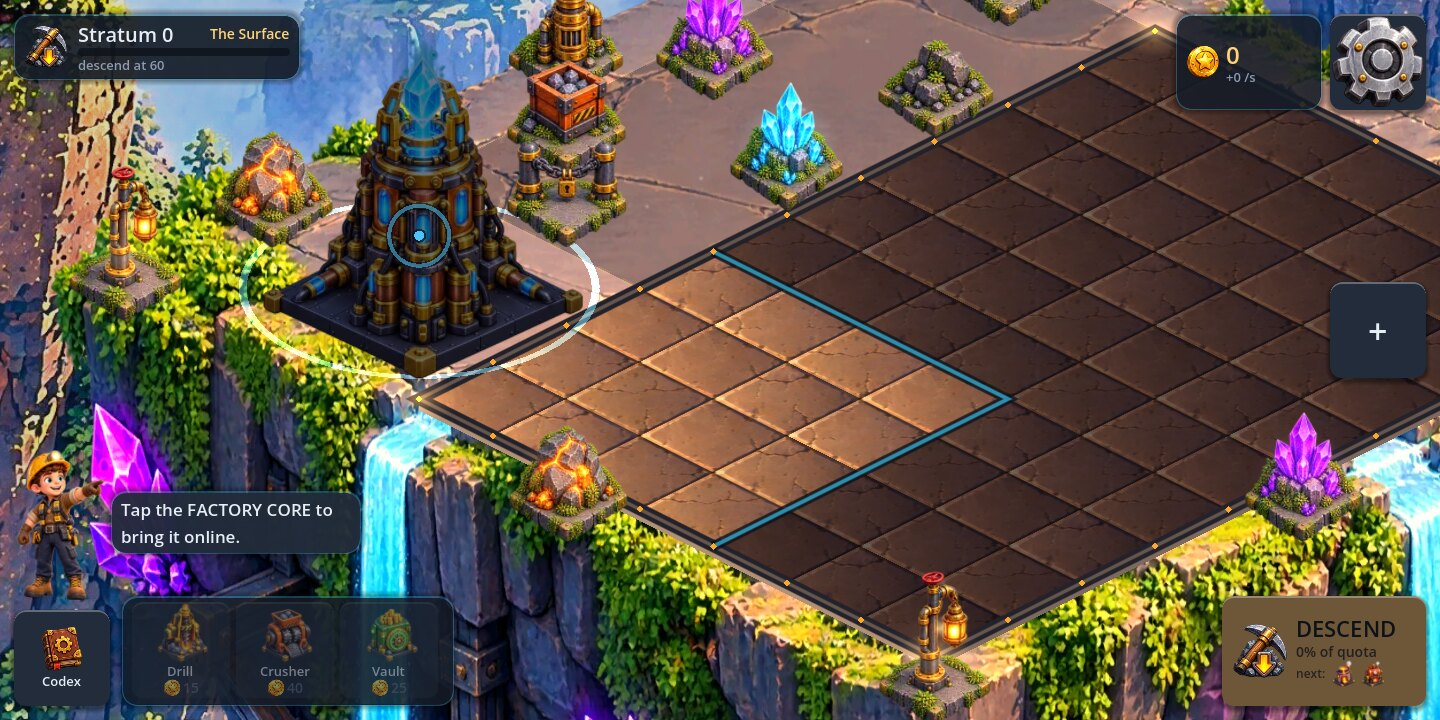
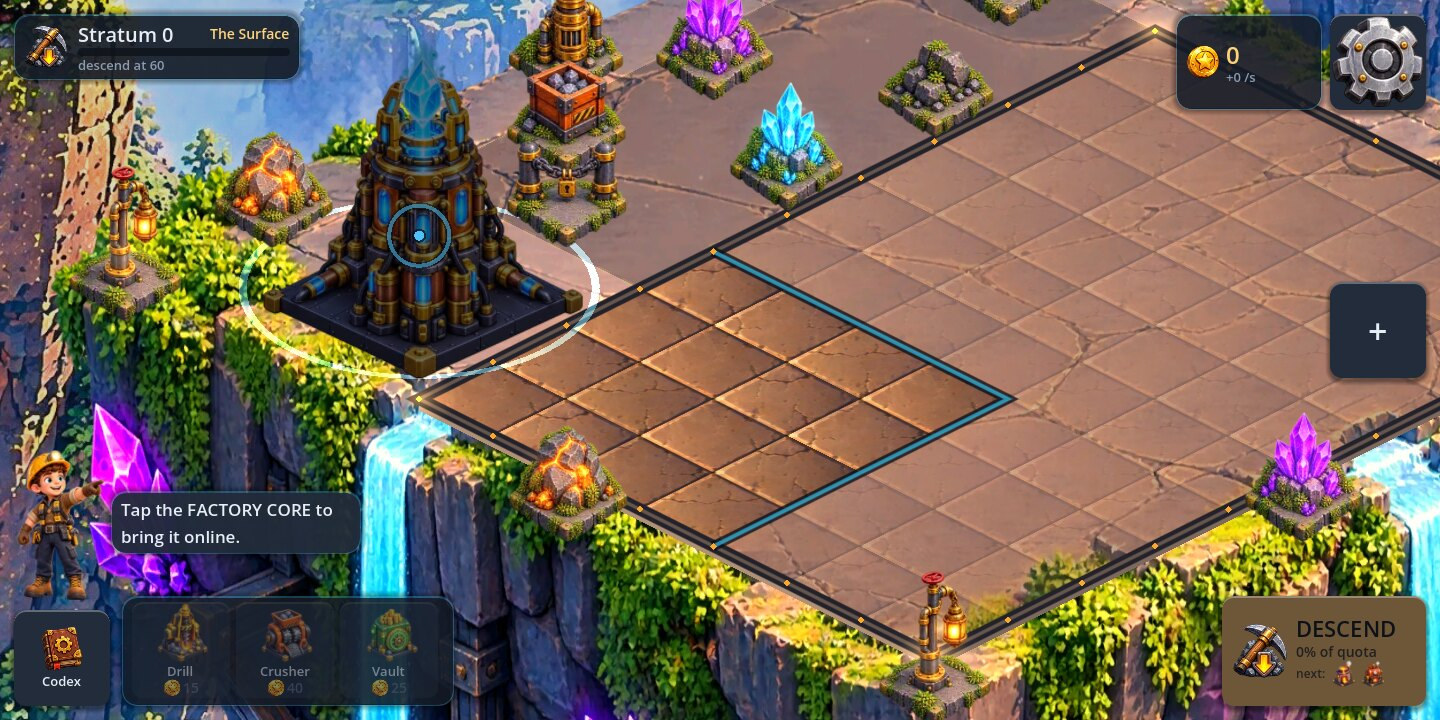
Draw the ground outside the yard as bare rock, not a dark hole
At first the tiles outside the yard were drawn at 42% brightness, and on a
new game's first screen that made a dark mass over about a third of the
screen, the heaviest thing in view. They are now faint grey slabs at 45%
opacity over the island's own rock: ground marked out and not yet laid.
The yard beside the Core, fully textured and outlined, is what stands out.

Changed region(s): [[0.5, 0.0611, 1.0, 0.8861]]

diff --git a/docs/ART.md b/docs/ART.md
@@ -95,7 +95,9 @@ Core is drawn at 84% of its picture and each level adds 4%. From level 2 it
 has a halo and conduits of light into the yard beside it, from level 3
 orbiting motes, and at level 5 a slow flare.
 
-**The yard.** Ground outside the yard is drawn at about 45% brightness.
+**The yard.** Ground outside the yard is drawn as faint grey slabs at 45%
+opacity over the island's own rock: marked out, not yet laid. It first went
+in at 45% brightness, which read as a dark hole over a third of the screen.
 The yard's inner edge is a lit accent line. When the yard grows, the new
 tiles flare in a wave outwards from the old edge.
 
